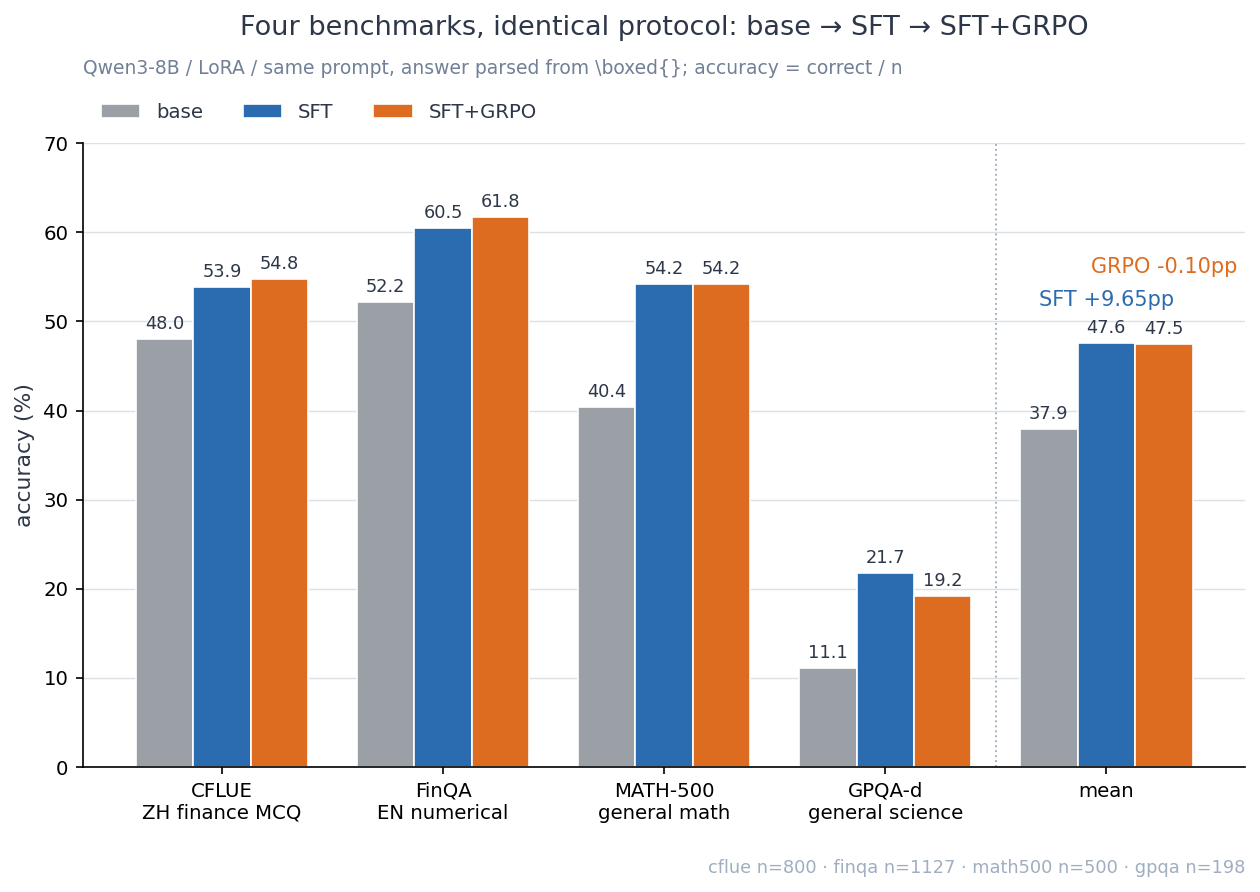
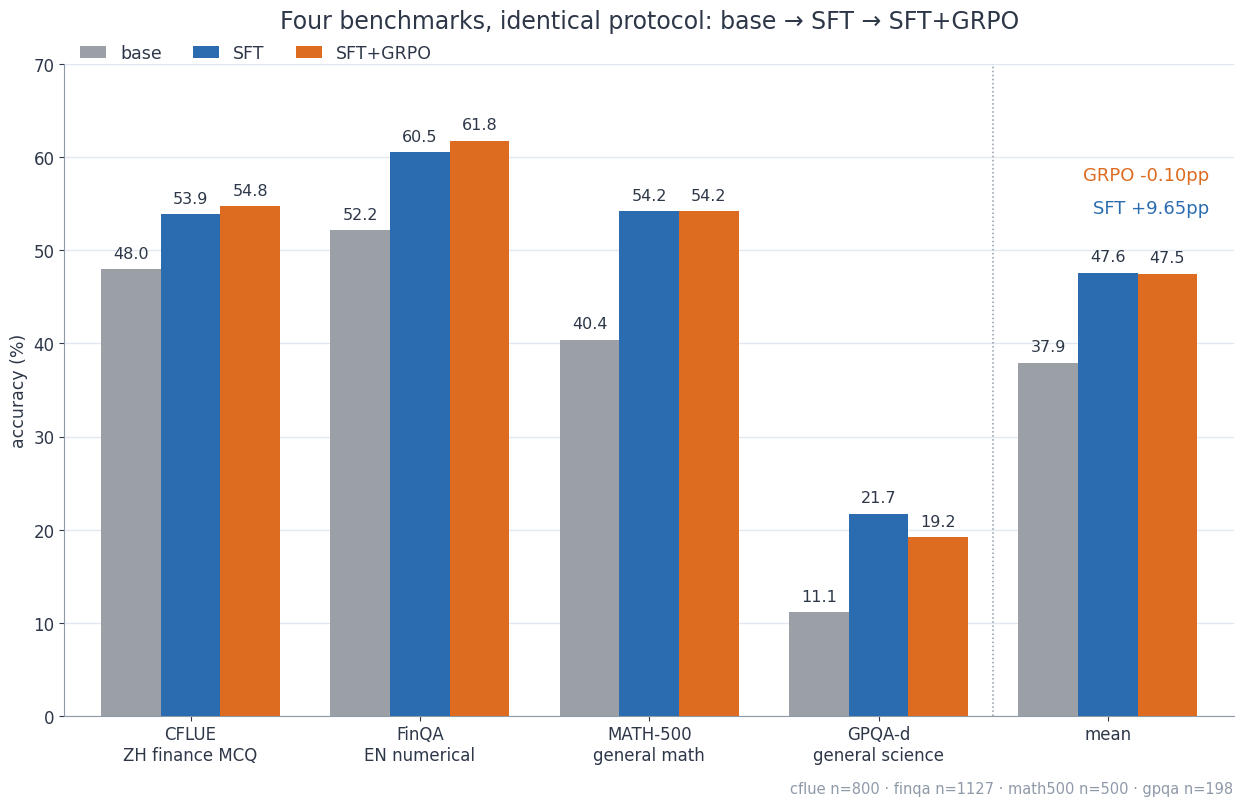
figs: regenerate the English fig1 without the protocol subtitle
Recomputed from eval/*.json rather than edited as an image; colours sampled
from the previous version so the style matches the rest of the set. The
Chinese README now embeds this English figure as well.

Changed region(s): [[0.0, 0.0, 1.0, 0.9926], [0.0305, 0.1551, 0.0611, 0.2171], [0.0305, 0.2481, 0.0611, 0.2792]]

diff --git a/README.md b/README.md
@@ -44,7 +44,7 @@ GRPO 净效应约等于零（47.58 → 47.48）。根因定位到 `--ref_adapter
 | GPQA-diamond（通用科学） | 198 | 11.11 | 21.72 | **19.19** | −2.53 |
 | **均值** | — | **37.92** | **47.58** | **47.48** | **−0.10** |
 
-<img src="figures/fig1_benchmark_comparison.png" width="760" alt="四基准同口径评测">
+<img src="figures/en/fig1_benchmark_comparison.png" width="760" alt="四基准同口径评测">
 
 **SFT 四基准全涨，均值 +9.66 pp**，通用能力（MATH / GPQA）未退化反升。
 
